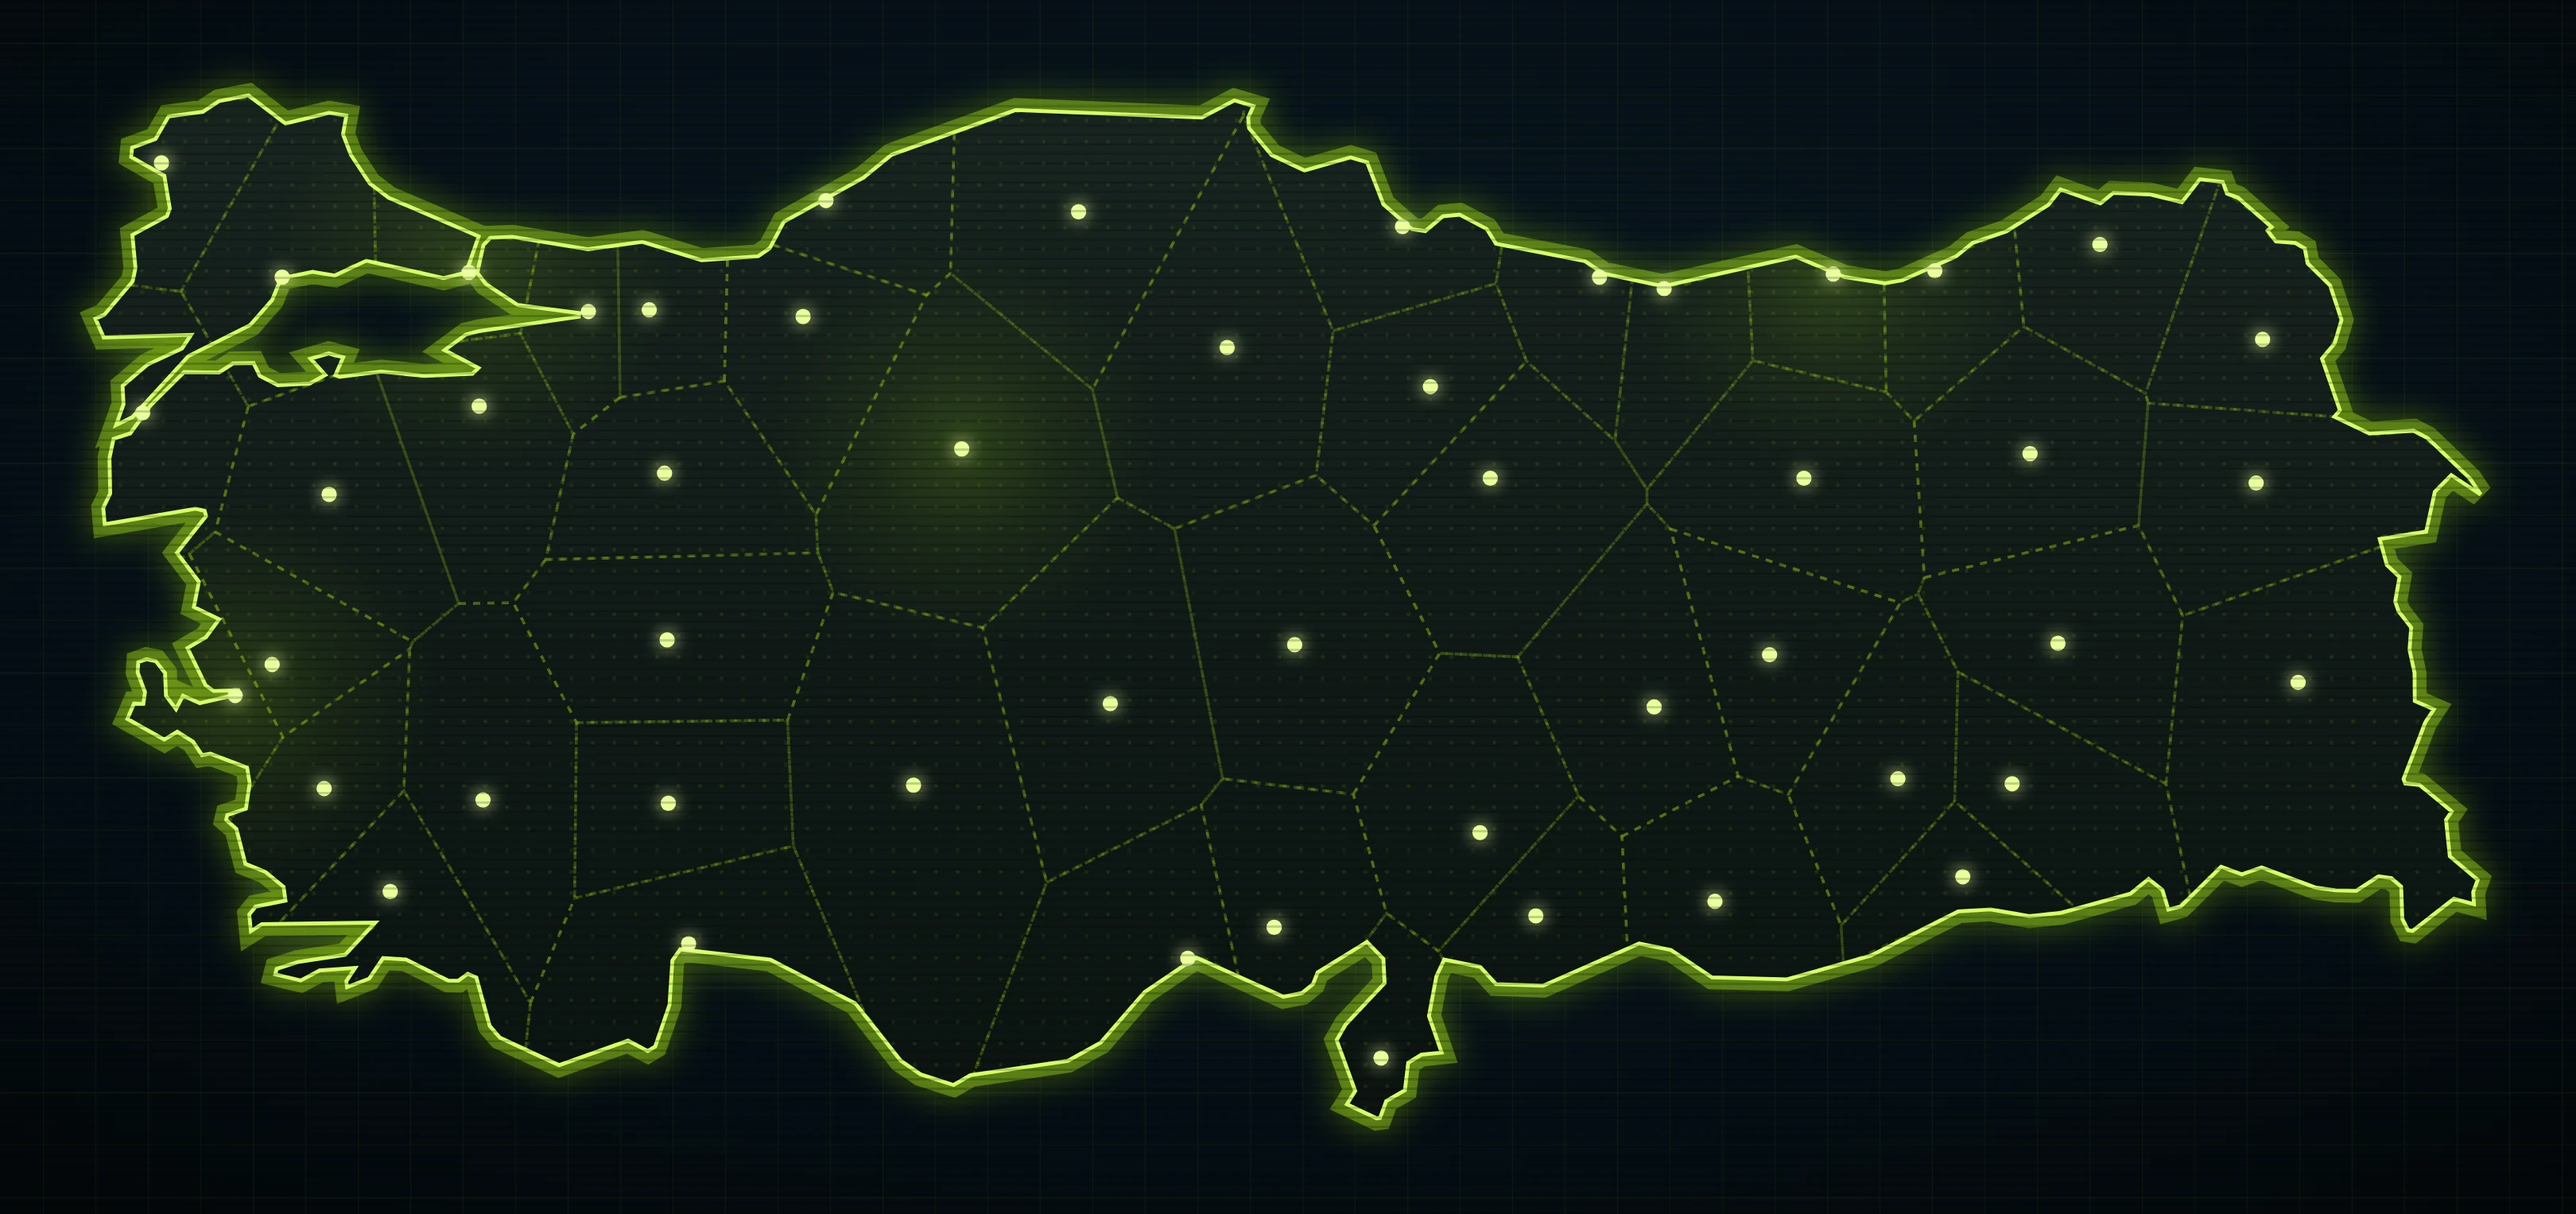
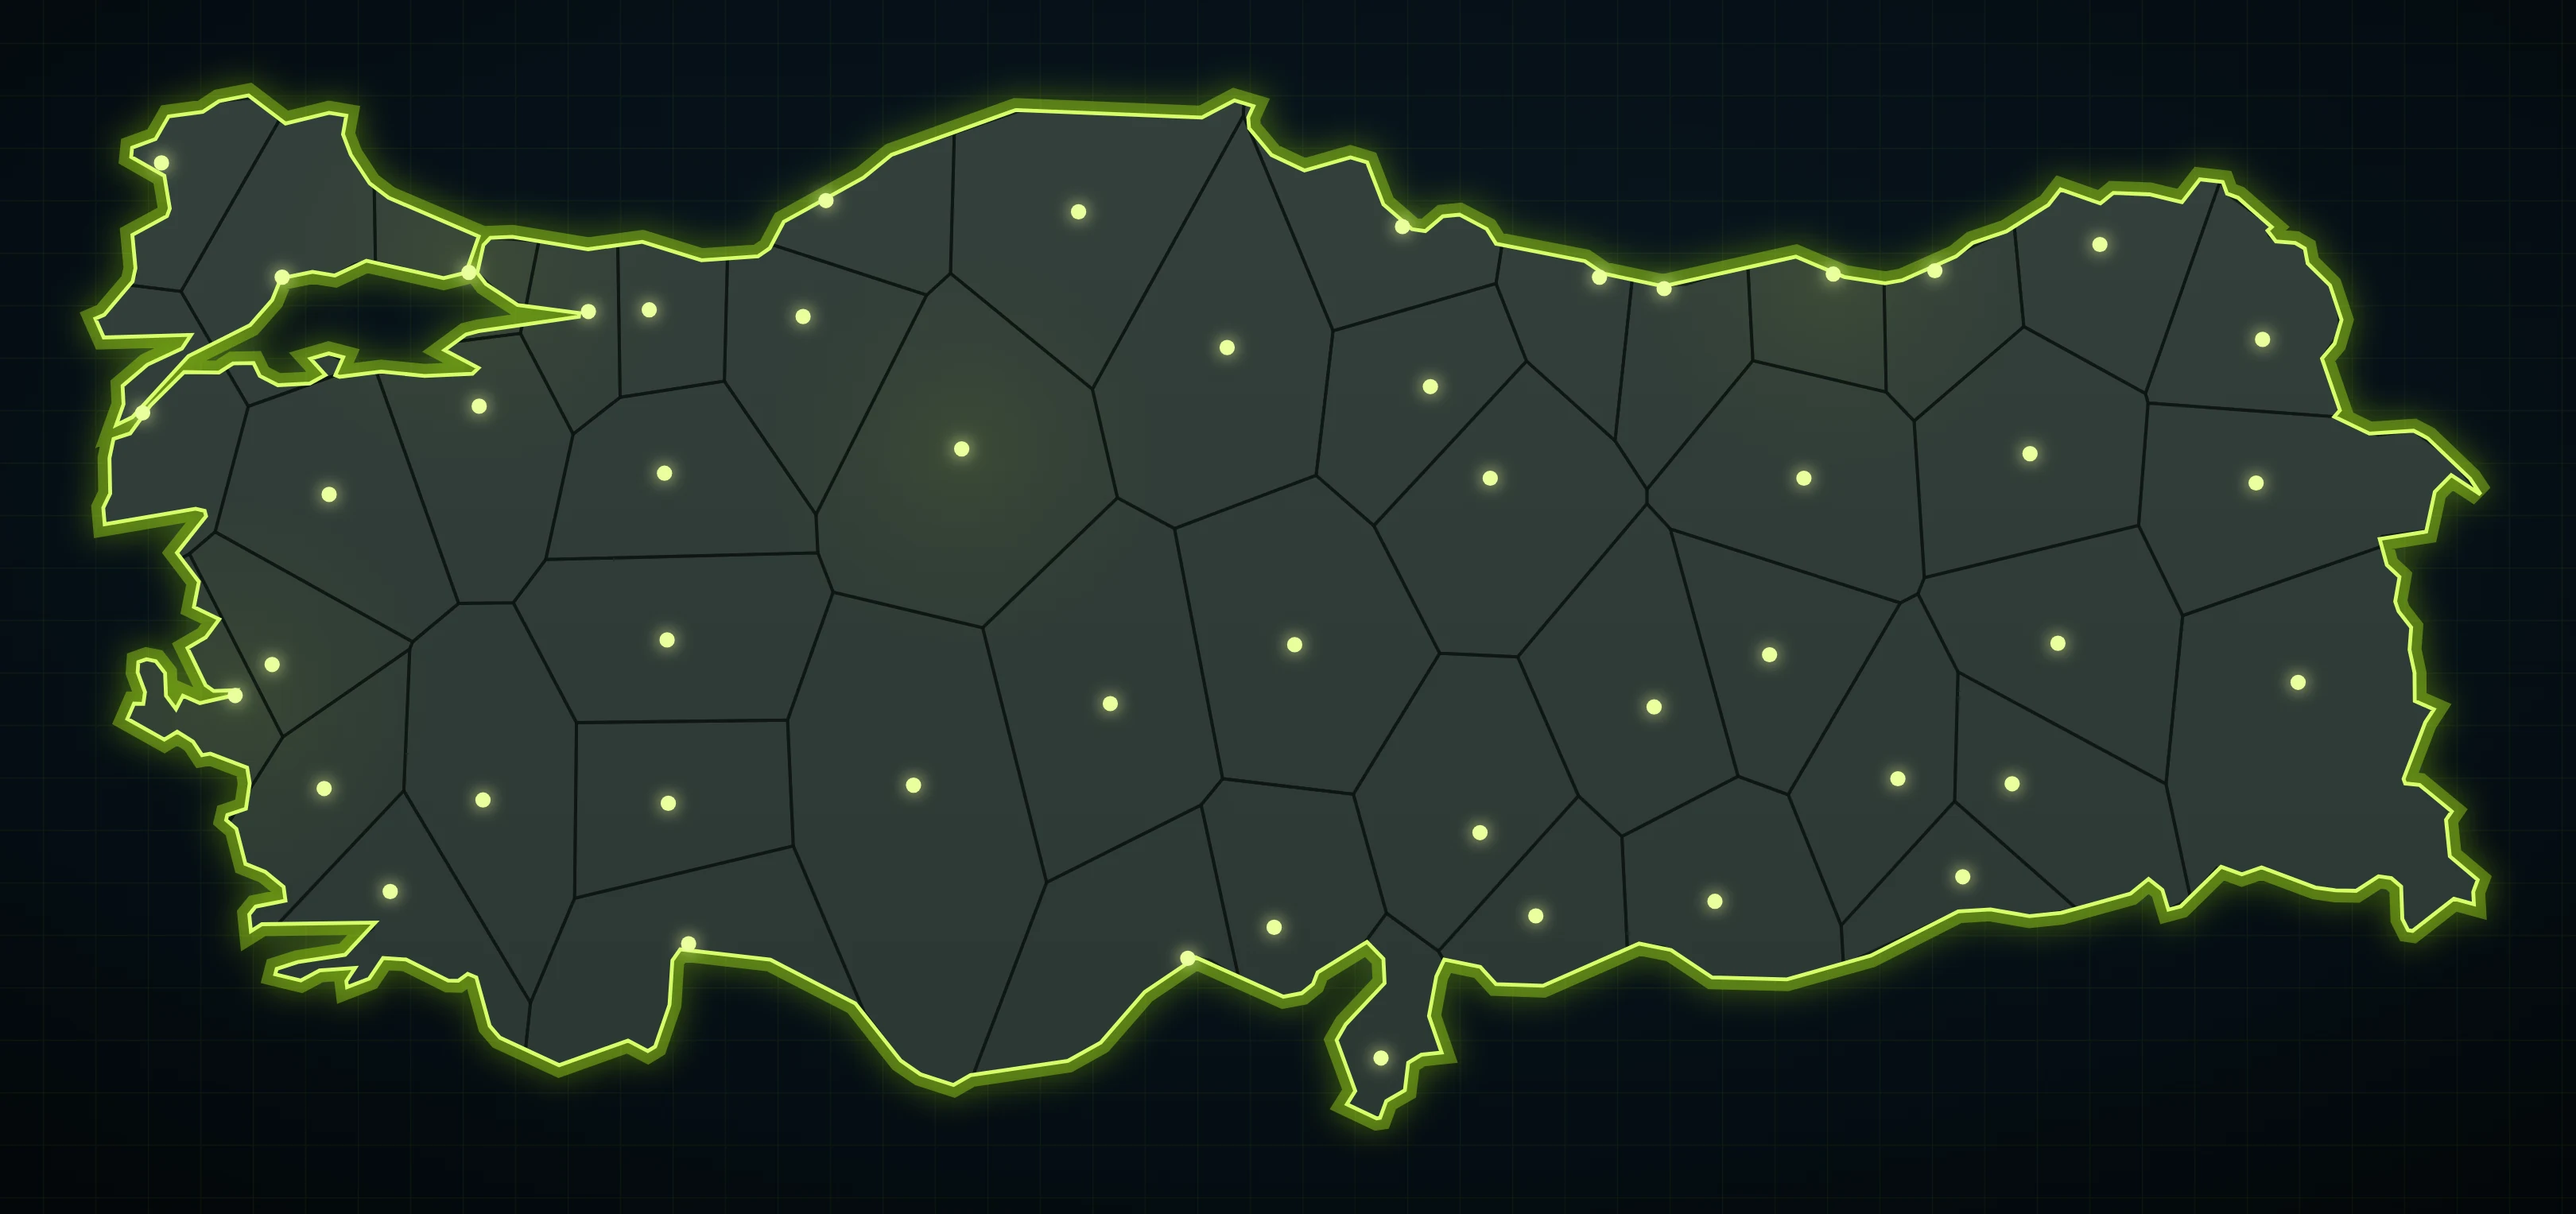
Saha Fethi: 2-player map, longer matches, matte map ground
- 2 players play on a 32-village map (3-4 players keep 50); the host tells
  guests which map to load.
- Battle rounds raised to 15/12/10 (2/3/4 players) so empires can fall.
- Map art: flat matte slate land with dark borders instead of the glossy
  dotted ground; both maps rendered at 3x.

Claude-Session: https://claude.ai/code/session_01RKhLQdCH5ubMWetL4R95SZ

diff --git a/side-games/fethet/fethet-game-v2.js b/side-games/fethet/fethet-game-v2.js
@@ -14,7 +14,7 @@
   const T_MC = 20, T_EST = 25, TOWERS = 3;
   const START_VILLAGES = 3, GRAB_ROUNDS = 4, TIEBREAKS = 3;
   // Battle rounds by player count: the match ends when one empire is left, or after these rounds.
-  const roundsFor = () => ({ 2: 8, 3: 6, 4: 5 })[S.players.length] || 6;
+  const roundsFor = () => ({ 2: 15, 3: 12, 4: 10 })[S.players.length] || 12;
   // Club colours for our own representative crests (no real logos: those are trademarks).
   const CLUB_COLORS = {
     Galatasaray: ['#a90432', '#fdb912'], Fenerbahçe: ['#163962', '#ffed00'], Beşiktaş: ['#111111', '#ffffff'], Başakşehir: ['#f37021', '#0a2240'],
@@ -58,10 +58,16 @@
 
   /* ---------- data ---------- */
   async function load() {
-    const [map, bank, art] = await Promise.all([fetch('./data/map-tr.json').then(r => r.json()), fetch('./data/questions.json').then(r => r.json()),
-      fetch('./assets/map-art.json').then(r => r.json()).catch(() => null)]);
-    S.map = map; S.bank = bank.questions; S.artVB = art?.viewBox || map.viewBox;
-    map.regions.forEach(r => { S.byId[r.id] = r; });
+    const [big, small, bank, art] = await Promise.all([fetch('./data/map-tr.json').then(r => r.json()), fetch('./data/map-tr-2.json').then(r => r.json()),
+      fetch('./data/questions.json').then(r => r.json()), fetch('./assets/map-art.json').then(r => r.json()).catch(() => null)]);
+    S.maps = { L: big, S: small }; S.bank = bank.questions; S.artVB = art?.viewBox || big.viewBox;  // both arts share one projection
+    useMap('L');
+  }
+  // 2 players play on the smaller map (32 villages), 3-4 players on the full one (50).
+  const mapFor = n => (n === 2 ? 'S' : 'L');
+  function useMap(key) {
+    S.mapKey = key === 'S' ? 'S' : 'L'; S.map = S.maps[S.mapKey]; S.byId = {};
+    S.map.regions.forEach(r => { S.byId[r.id] = r; });
   }
   const regionsOf = i => S.map.regions.filter(r => S.owner[r.id] === i).map(r => r.id);
   const free = () => S.map.regions.filter(r => S.owner[r.id] == null).map(r => r.id);
@@ -125,6 +131,7 @@
 
   function start() {
     S.owner = {}; S.used = new Set(); S.log = []; S.me = 0; S.over = false; S.aborted = false; S.round = 0; S.grab = 0; S.turnIdx = null;
+    useMap(mapFor(S.count));
     const bases = S.map.starts[String(S.count)];
     S.players = bases.map((base, i) => ({ id: i, name: i === 0 ? S.name : BOT_NAMES[i - 1], kind: i === 0 ? 'local' : 'bot', color: COLORS[i], base, towers: TOWERS, alive: true }));
     S.map.regions.forEach(r => { S.owner[r.id] = null; });
@@ -140,7 +147,7 @@
     const counts = S.players.map(p => regionsOf(p.id).length);
     app.innerHTML = `<header class="fx-hud">${S.players.map((p, i) => `<div class="fx-pl${p.alive ? '' : ' out'}${S.turnIdx === i ? ' turn' : ''}${i === S.me ? ' me' : ''}" style="--c:${p.color}"><b>${esc(p.name)}${i === S.me && online() ? ' · sen' : ''}</b><span>${counts[i]} köy · ${'●'.repeat(p.towers)}${'○'.repeat(TOWERS - p.towers)}</span></div>`).join('')}</header>
       <div class="fx-phase" id="fxPhase">${S.phase === 'grab' ? `YERLEŞME${S.grab ? ` · ${Math.min(S.grab, GRAB_ROUNDS)}/${GRAB_ROUNDS}` : ''}` : S.phase === 'battle' ? `SAVAŞ · TUR ${Math.min(S.round, roundsFor())}/${roundsFor()}` : 'MAÇ SONU'} · <span>${free().length} boş köy</span></div>
-      <div class="fx-mapwrap"><div class="fx-stage"><img class="fx-art" src="./assets/map-art.webp?v=20261116-art3" alt="" draggable="false">
+      <div class="fx-mapwrap"><div class="fx-stage"><img class="fx-art" src="./assets/map-art${S.mapKey === 'S' ? '-2' : ''}.webp?v=20261116-art4" alt="" draggable="false">
       <svg class="fx-map" viewBox="${S.artVB.join(' ')}" role="img" aria-label="Türkiye haritası">
         ${m.regions.map(r => {
           const o = S.owner[r.id], p = o == null ? null : S.players[o], hl = highlight.includes(r.id);
@@ -824,14 +831,16 @@
   function startOnline() {
     if (NET.started) return;
     NET.started = true;
-    const lobby = NET.lobby.slice(0, 4), bases = S.map.starts[String(lobby.length)];
+    const lobby = NET.lobby.slice(0, 4);
+    useMap(mapFor(lobby.length));
+    const bases = S.map.starts[String(lobby.length)];
     S.owner = {}; S.used = new Set(); S.over = false; S.reported = false; S.round = 0; S.grab = 0; S.turnIdx = null;
     S.players = lobby.map((x, i) => ({ id: i, name: x.name, color: COLORS[i], base: bases[i], towers: TOWERS, alive: true, kind: i === 0 ? 'local' : 'remote' }));
     NET.conns = lobby.map(x => x.conn); NET.uids = lobby.map(x => x.uid);
     S.map.regions.forEach(r => { S.owner[r.id] = null; });
     S.players.forEach(p => { S.owner[p.base] = p.id; });
     S.phase = 'grab';
-    NET.conns.forEach((c, pid) => { if (c) { try { c.send({ c: 'start', pid, uids: NET.uids }); } catch {} } });
+    NET.conns.forEach((c, pid) => { if (c) { try { c.send({ c: 'start', pid, uids: NET.uids, map: S.mapKey }); } catch {} } });
     renderBoard();
     run(grabLoop);
   }
@@ -869,7 +878,8 @@
     if (m.c === 'lobby' && !NET.started) { NET.lobby = (m.list || []).slice(0, 4).map(x => ({ name: cleanName(x.name) })); renderLobby(`Oyuncular bekleniyor (${NET.lobby.length}/${AUTO.size})…`); return; }
     if (m.c === 'full') { renderLobby('Bu maç dolu ya da başladı.', true); return; }
     if (m.c === 'start') {
-      NET.started = true; S.me = Number.isInteger(m.pid) ? m.pid : 1; NET.uids = Array.isArray(m.uids) ? m.uids.map(String) : [];
+      NET.started = true; S.me = Number.isInteger(m.pid) ? m.pid : 1;
+      NET.queue = NET.queue.then(() => useMap(m.map));  // after the data has loaded NET.uids = Array.isArray(m.uids) ? m.uids.map(String) : [];
       S.over = false; S.reported = false; S.lost = false; S.endTimer = 0; S.used = new Set();
       return;
     }

diff --git a/side-games/how-to-play.html b/side-games/how-to-play.html
@@ -76,9 +76,9 @@ const guides={
   <section class="section"><h3>SERİ VE REKOR</h3><p>İlk yanlışta oyun biter ve doğru cevap sayın, yani serin gösterilir. Kişisel rekorun cihazında, giriş yaptıysan <b>haftalık</b> ve <b>tüm zamanlar</b> rekor tablolarında saklanır. Her yeni oyunda soru değişir.</p></section>
   <section class="section"><h3>SORULAR</h3><p>Millî maç ve gol, sarı ve kırmızı kart, en yüksek ve güncel piyasa değeri, yaş, boy, lig golü ve maçı, asist, forma giyilen kulüp sayısı, Süper Lig maçı ve Dünya Kupası kadrosu sayısı. Kart ve asist sayıları 2012/13 sezonundan bu yanaki resmî kulüp maçlarına göredir. Dünya Kupası kadroları Wikidata ve <a href="https://www.github.com/jfjelstul/worldcup" target="_blank" rel="noopener">Fjelstul World Cup Database</a> (© 2023 Joshua C. Fjelstul, Ph.D., <a href="https://creativecommons.org/licenses/by-sa/4.0/legalcode" target="_blank" rel="noopener">CC-BY-SA 4.0</a>) verisinden derlenmiştir. Seri uzadıkça daha az bilinen ve değerleri birbirine daha yakın futbolcular gelir.</p></section>`},
  fethet:{title:'SAHA FETHİ',sub:'Türkiye haritasında futbol bilginle şehir fethet.',play:'./fethet/index.html',html:`
-  <section class="section"><h3>BAŞLANGIÇ VE YERLEŞME</h3><p>Harita 50 köye bölünmüştür. Herkes ana stadyumu ve çevresindeki köylerle <b>eşit (3 köy)</b> başlar. Sonra 4 <b>tahmin sorusu</b> gelir (ör. “Arda Güler kaç A milli maça çıktı?”): en yakın olan 2, ikinci en yakın 1 köy seçer. Kalan köyler boş kalır.</p></section>
+  <section class="section"><h3>BAŞLANGIÇ VE YERLEŞME</h3><p>Harita 2 kişide 32, 3-4 kişide 50 köye bölünür. Herkes ana stadyumu ve çevresindeki köylerle <b>eşit (3 köy)</b> başlar. Sonra 4 <b>tahmin sorusu</b> gelir (ör. “Arda Güler kaç A milli maça çıktı?”): en yakın olan 2, ikinci en yakın 1 köy seçer. Kalan köyler boş kalır.</p></section>
   <section class="section"><h3>SAVAŞ</h3><p>Sıran gelince ya komşu bir <b>boş köyü</b> alırsın (tek başına bir soru; bilirsen köy senin) ya da komşu bir <b>rakip şehre saldırırsın</b>. Saldırıda iki taraf aynı çoktan seçmeli soruyu cevaplar; seçilen şıklar oyuncuların renkleriyle gösterilir. Sadece saldıran bilirse şehri alır; saldıran bilemezse (ikiniz de bilemeseniz bile) saldırı püskürür. <b>İkiniz de bilirseniz açık uçlu ek sorular</b> gelir; cevabı en yakın olan kazanır, eşitlikte bir ek soru daha sorulur.</p></section>
-  <section class="section"><h3>ANA STADYUM VE MAÇ SONU</h3><p>Her oyuncunun 3 kaleli bir ana stadyumu var. Her başarılı saldırı bir kaleyi yıkar; son kale düşerse o oyuncunun bütün şehirleri fatihe geçer. Maç, tek imparatorluk kalınca ya da tur sınırı dolunca (2 kişide 8, 3 kişide 6, 4 kişide 5 tur) biter; en çok köyü olan kazanır.</p></section>
+  <section class="section"><h3>ANA STADYUM VE MAÇ SONU</h3><p>Her oyuncunun 3 kaleli bir ana stadyumu var. Her başarılı saldırı bir kaleyi yıkar; son kale düşerse o oyuncunun bütün şehirleri fatihe geçer. Maç, tek imparatorluk kalınca ya da tur sınırı dolunca (2 kişide 15, 3 kişide 12, 4 kişide 10 tur) biter; en çok köyü olan kazanır.</p></section>
   <section class="section"><h3>ONLINE</h3><p>Botlara karşı tek başına oynayabilir ya da <b>RAKİP BUL</b> ile 1'e 1 eşleşebilirsin. <b>ARKADAŞLARLA</b> seçeneği lobiyi açar: 2-4 kişilik partinin lideri Saha Fethi'yi seçip başlatınca herkes aynı maça alınır. Sorular ve harita lider cihazında yönetilir; savaşta olmayan oyuncular soruyu ve topçu sahnesini izler. Maçtan çıkan oyuncunun yerine bot oynar; 1'e 1 maçta bağlantısı dönmeyen oyuncu hükmen kaybeder. Sonuçlar liderlik tablosuna işlenir.</p></section>
   <section class="section"><h3>VERİ</h3><p>Sorular NEON XI oyuncu havuzundan (Transfermarkt, Wikidata, Wikipedia, Reep) üretilir; lig şampiyonlukları ve stadyumlar ayrıca elle doğrulanır. Harita: Natural Earth (kamu malı). Kulüp armaları temsilîdir, resmî logolar kullanılmaz.</p></section>`},
  wordle:{title:'FOOTBALL WORDLE',sub:'Gizli futbolcu adını altı denemede harflerden çöz.',play:'./football-wordle/index.html',html:`

diff --git a/scripts/build_fethet_map.py b/scripts/build_fethet_map.py
@@ -21,7 +21,7 @@ from shapely.ops import unary_union, voronoi_diagram
 
 ROOT = Path(__file__).resolve().parents[1]
 NE = ROOT / ".tmp-geo" / "ne50.geojson"
-OUT = ROOT / "side-games" / "fethet" / "data" / "map-tr.json"
+OUT_DIR = ROOT / "side-games" / "fethet" / "data"
 
 # city, lon, lat, clubs (the names used in the question bank), short label
 CITIES = [
@@ -77,12 +77,22 @@ CITIES = [
     ("Batman", 41.13, 37.88, ["Batman Petrolspor"], "BAT"),
     ("Artvin", 41.82, 41.18, ["Artvin Hopaspor"], "ART"),
 ]
+# Two maps: 2 players play on a smaller one (fewer villages), 3-4 players on all of them.
+SMALL = ["İstanbul", "Kocaeli", "Bursa", "Eskişehir", "İzmir", "Balıkesir", "Denizli", "Antalya", "Mersin", "Adana", "Hatay", "Ankara",
+         "Konya", "Kayseri", "Sivas", "Samsun", "Trabzon", "Rize", "Erzurum", "Malatya", "Gaziantep", "Diyarbakır", "Van",
+         "Çanakkale", "Sakarya", "Manisa", "Aydın", "Afyon", "Çorum", "Ordu", "Elazığ", "Urfa"]
+MAPS = {"map-tr.json": None, "map-tr-2.json": SMALL}
 # Bases sit on strong football cities; the corners are chosen among these.
 BASE_CANDIDATES = ["İstanbul", "İzmir", "Antalya", "Ankara", "Trabzon", "Gaziantep", "Erzurum", "Van", "Samsun", "Adana"]
 W = 1000  # viewBox width
 
 
 def main() -> None:
+    for name, keep in MAPS.items():
+        build(OUT_DIR / name, [c for c in CITIES if keep is None or c[0] in keep])
+
+
+def build(OUT: Path, CITIES: list) -> None:
     feat = next(f for f in json.loads(NE.read_text())["features"] if f["properties"].get("ADM0_A3") == "TUR")
     land = shape(feat["geometry"])
     land = unary_union([g for g in getattr(land, "geoms", [land]) if g.area > 0.05])  # drop specks of islands
@@ -122,7 +132,7 @@ def main() -> None:
                     seen[y] = seen[x] + 1; q.append(y)
         return seen.get(b, 99)
     by_name = {r["name"]: r["id"] for r in regions}
-    cands = [by_name[n] for n in BASE_CANDIDATES]
+    cands = [by_name[n] for n in BASE_CANDIDATES if n in by_name]
     starts = {}
     for k in (2, 3, 4):
         # Furthest apart first; among equals, the bigger football cities (earlier in BASE_CANDIDATES).
